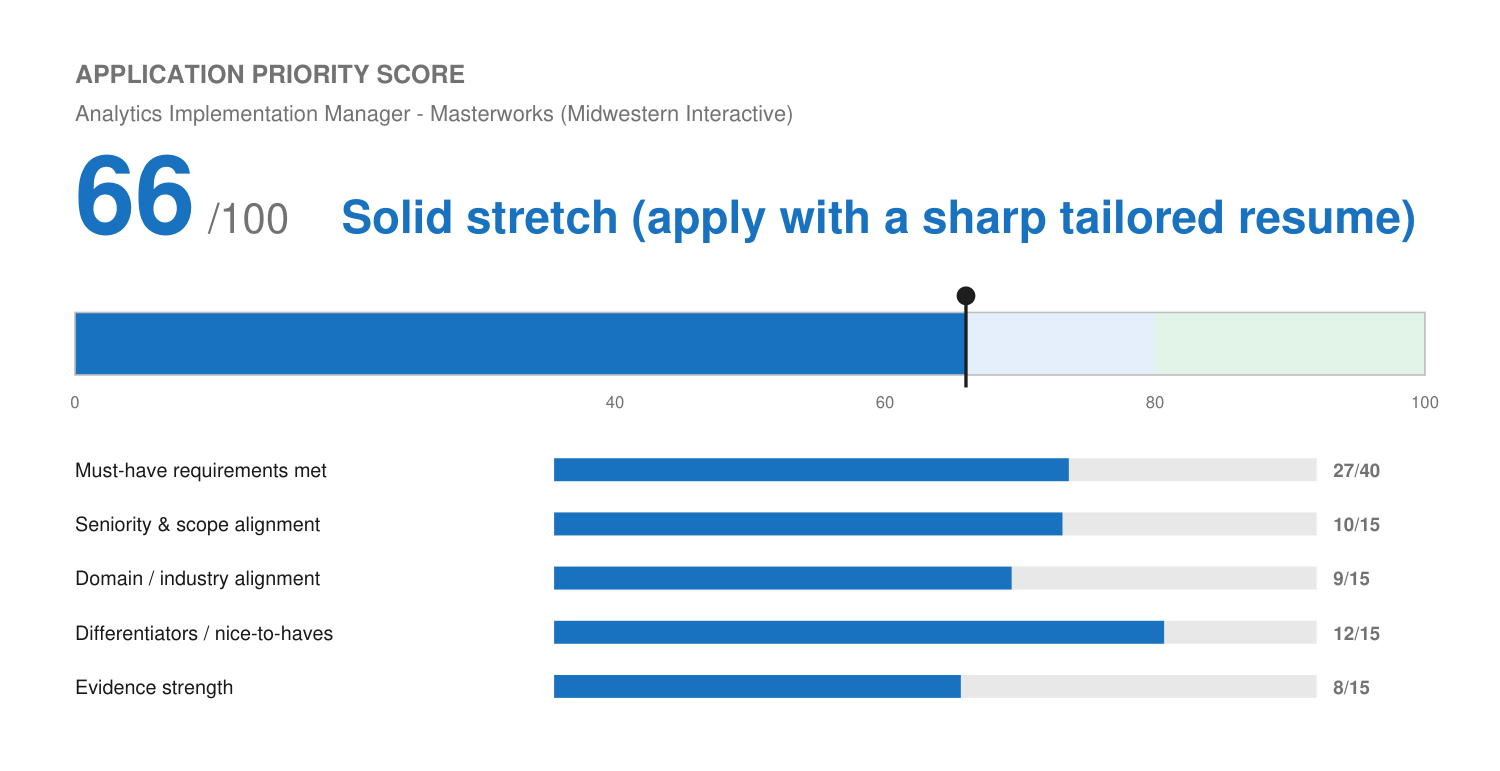
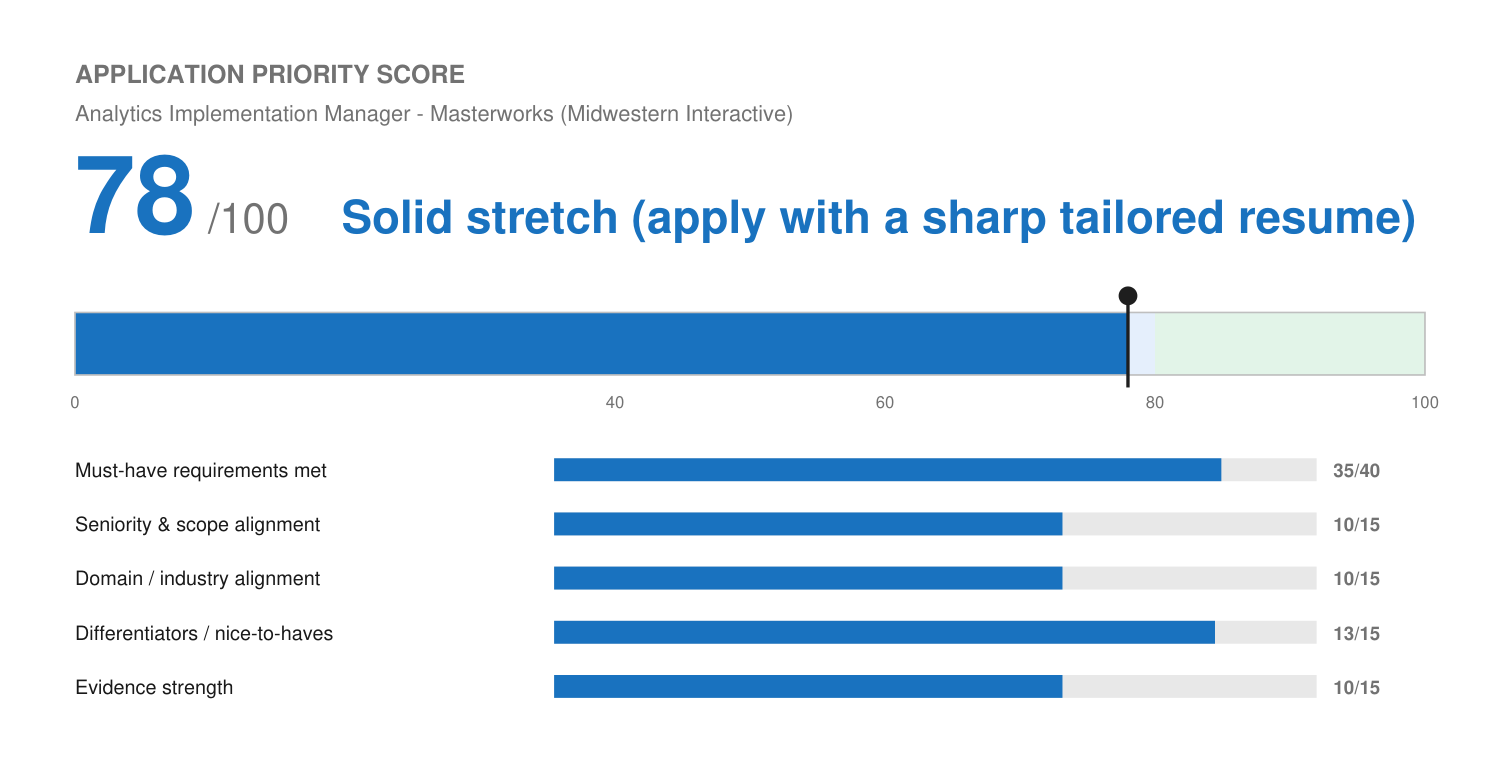
Masterworks Analytics Implementation Manager: score 78 after confirmations; profile adds GTM depth, DevTools debugging, pixels, UTM, consent
Claude-Session: https://claude.ai/code/session_018DEej5NGjq1omj9BTtvEiy

diff --git a/applications/masterworks-analytics-implementation-manager/match-report.md b/applications/masterworks-analytics-implementation-manager/match-report.md
@@ -24,20 +24,20 @@ No knockout. No cap. No video answer. Faith-based client base is context, not a 
 
 ## Application Priority Score
 
-⚪ **66 / 100 — Solid stretch (apply with a sharp tailored resume)**
-`[█████████████░░░░░░░]  66%`
+⚪ **78 / 100 — Solid stretch (apply with a sharp tailored resume)**
+`[████████████████░░░░]  78%`
 
 *Internal decision aid, not a prediction of Masterworks' screening outcome.* See `fit.png`.
 
 | Dimension | Score | Max |
 | :--- | :---: | :---: |
-| Must-have requirements met | 27 | 40 |
+| Must-have requirements met | 35 | 40 |
 | Seniority & scope alignment | 10 | 15 |
-| Domain / industry alignment | 9 | 15 |
-| Differentiators / nice-to-haves | 12 | 15 |
-| Evidence strength | 8 | 15 |
+| Domain / industry alignment | 10 | 15 |
+| Differentiators / nice-to-haves | 13 | 15 |
+| Evidence strength | 10 | 15 |
 
-This is a hands-on technical QA/implementation seat. Josh has the tooling (GTM, GA4, SQL, webhooks/APIs, JS in code steps) and the agency multi-client context, but his titles are sales/AM and the profile has little documented depth on GTM internals and browser-level debugging. The confirmation items below could move must-haves up meaningfully.
+Updated after confirmations: now near the top of the solid-stretch band. This is a hands-on technical QA/implementation seat. Josh has the tooling (GTM, GA4, SQL, webhooks/APIs, JS in code steps) and the agency multi-client context, but his titles are sales/AM and the profile has little documented depth on GTM internals and browser-level debugging. The confirmation items below could move must-haves up meaningfully.
 
 ---
 
@@ -46,20 +46,20 @@ This is a hands-on technical QA/implementation seat. Josh has the tooling (GTM, 
 | JD Requirement | Coverage | Evidence |
 | :--- | :--- | :--- |
 | 3+ yrs digital analytics / tag management | Adjacent | Solenzo GTM/GA4 installs; Wix GTM guidance |
-| Strong GTM: tags, triggers, variables, containers | Adjacent (depth unconfirmed) | GTM installed/configured on every Solenzo site |
-| Web analytics platform: goals, events, e-commerce | Adjacent | GA4 implementation and tracking; Wix e-commerce segment results. GA4 e-commerce event config not documented |
-| Debug with dev tools: network tab, dataLayer, event chains | Candidate confirmation needed | Integration/JSON debugging documented; browser-level debugging not |
+| Strong GTM: tags, triggers, variables, containers | Strong | Custom triggers/variables, Preview mode, every Solenzo site (confirmed Oct 2026) |
+| Web analytics platform: goals, events, e-commerce | Strong (e-commerce partial) | GA4 conversion events via GTM; GA4 e-commerce event config not documented |
+| Debug with dev tools: network tab, dataLayer, event chains | Strong | Confirmed Oct 2026: DevTools network tab + dataLayer for GA4 debugging |
 | Multiple client contexts + documentation | Strong | ~25 concurrent onboardings (Wix); Notion documentation (Solenzo); agency roles |
 | Clear written communication to non-technical | Strong | 18 published articles incl. schema for non-developers |
 | Piwik PRO (preferred) | Gap | |
-| Ad pixels: Meta, Google Ads, Adform, TTD (preferred) | Partial | Meta Ads certified, Google Ads optimization, LinkedIn Ads; no Adform/TTD; pixel deployment itself unconfirmed |
-| CRM source code tracking, UTM schemas (preferred) | Adjacent | Data feeds into CRMs, campaign attribution/ROI tracking; UTM governance unconfirmed |
+| Ad pixels: Meta, Google Ads, Adform, TTD (preferred) | Partial-strong | Installs Meta Pixel + Google Ads conversion tags himself; no Adform/TTD/Outbrain |
+| CRM source code tracking, UTM schemas (preferred) | Strong | Defines/enforces UTM conventions; data feeds into CRMs |
 | Basic SQL / BigQuery / Looker (preferred) | Strong | SQL for BigQuery/GA4 pulls and Power BI models |
 | Agency multi-client (preferred) | Strong | Level Agency, Fetch & Funnel, Solenzo |
 | AI/automation for monitoring (responsibility) | Strong | n8n/Make/Zapier, LLM APIs, evaluation loops |
-| Consent management | Gap | No cookie-consent / CMP experience documented |
+| Consent management | Adjacent-strong | Has set up cookie-consent configuration; CMP tool not named; no corporate privacy-compliance ownership |
 
-**Must-haves:** 2 of 6 strong, 3 adjacent, 1 unconfirmed.
+**Must-haves:** 5 of 6 strong; 3+ years as a dedicated analytics function still partial.
 
 ## Top Strengths
 1. Real hands-on tracking/integration work at Solenzo (GTM, GA4, webhooks, APIs, JSON, CRM data feeds).
@@ -69,15 +69,12 @@ This is a hands-on technical QA/implementation seat. Josh has the tooling (GTM, 
 ## Gaps
 - Piwik PRO (strongly preferred).
 - Adform, The Trade Desk, Outbrain pixels.
-- Consent management platforms / privacy compliance for tracking.
+- Corporate privacy/legal compliance ownership for tracking (consent setup itself is confirmed).
 - Nonprofit/faith-based fundraising domain (context, not required).
 
 ## Candidate Confirmation Needed
-1. **Browser dev-tools debugging.** Has Josh used the network tab and inspected the dataLayer to debug tags or conversion events? This is a must-have.
-2. **GTM depth.** Has he built custom triggers and variables (not just installed the container and a GA4 tag)? Any GTM Preview/debug mode use?
-3. **Pixel deployment.** Has he installed Meta Pixel / Google Ads conversion tags himself (via GTM or code)?
-4. **UTM schemas.** Has he defined or enforced a UTM naming convention for clients?
-5. **Consent banners.** Any cookie-consent / CMP setup (e.g., Cookiebot, OneTrust, GTM consent mode)?
+- Resolved Oct 5, 2026: Josh confirmed all five (DevTools/dataLayer debugging for GA4, custom GTM triggers/variables + Preview, Meta Pixel and Google Ads conversion tags, UTM conventions, cookie consent). Added to `master-profile.md`, resume, and cover letter. Score 66 -> 78.
+- Still open: which consent tool (Cookiebot, OneTrust, GTM consent mode); GA4 e-commerce event setup; whether any of this happened outside Solenzo.
 
 ## Metrics Needed
 - Number of client sites he has deployed GTM/GA4 on.

diff --git a/profile/master-profile.md b/profile/master-profile.md
@@ -384,6 +384,16 @@ operator talking, not like a candidate performing.
 > using AI assistance as part of the workflow. Safe to claim against a JD's "built and
 > deployed an automated workflow that calls external APIs in production" requirement.
 >
+> **Tracking implementation depth (confirmed by Josh, Oct 2026, Masterworks session):**
+> (1) debugs tags and GA4 conversion events with browser developer tools (network tab,
+> dataLayer inspection); (2) builds custom GTM triggers and variables and uses GTM
+> Preview/debug mode, beyond container install; (3) installs Meta Pixel and Google Ads
+> conversion tracking himself; (4) defines and enforces UTM naming conventions for
+> clients; (5) has set up cookie-consent banners / consent configuration. Attributed to
+> Solenzo by default (where he builds and tags client sites); confirm if any came from
+> another role. Specific CMP tool (Cookiebot, OneTrust, GTM consent mode) not named.
+> Piwik PRO, Adform, The Trade Desk, Outbrain remain unconfirmed/gaps.
+>
 > **Data feeds into CRMs (confirmed by Josh, Oct 2026):** has set up and run data feeds into
 > Salesforce, HubSpot, and GoHighLevel, and validates every import by re-checking the
 > results. No volume figures available (don't ask again). SFTP setup, file encryption (PGP),
@@ -447,6 +457,8 @@ operator talking, not like a candidate performing.
 
 **Operations & Technical Setup**
 - Install and configure Google Tag Manager on every website built at Solenzo, and guided clients through GTM setup at Wix. *(Confirmed by Josh, Aug 2026.)*
+- Build custom GTM triggers and variables for GA4 conversion events, Meta Pixel, and Google Ads conversion tags, validating in GTM Preview mode and browser developer tools (network tab, dataLayer). *(Confirmed by Josh, Oct 2026.)*
+- Define and enforce UTM naming conventions for client campaigns, and set up cookie-consent configuration on client sites. *(Confirmed by Josh, Oct 2026.)*
 - Architect and implement complex CRM systems in GoHighLevel (primary) and HubSpot — contact segmentation, lifecycle stages, and strict data-hygiene protocols.
 - Build reusable agent infrastructure and internal tooling integrating with client CRMs and CMS platforms for 24/7 automated growth engines.
 - Own post-sale value delivery for B2B clients, architecting onboarding and technical setup that drives product adoption at scale.
@@ -690,7 +702,7 @@ operator talking, not like a candidate performing.
 | CRM & Marketing Automation | GoHighLevel (primary) CRM & Automation Architecture, HubSpot, Salesforce, Workflow Design, Segmentation, Data Hygiene, Lifecycle Stages, Lead Routing, Zapier, Make, n8n |
 | Sales Engagement & Enrichment | Salesloft, Apollo, HeyReach, ZoomInfo, Gong (confirmed hands-on, Sep/Oct 2026; role attribution to be captured), Pipeline Stage Tracking & Forecast Hygiene |
 | Growth & Demand Generation | Full-funnel acquisition, Lifecycle Marketing, CRO, A/B Testing, Paid Media, Paid Social (Meta Ads certified), SEO, Local SEO & Google Business Profile Management, Data-Aggregator/Listings Solutions, Email Marketing (Marketo, Mailchimp), Landing Pages |
-| Analytics & Reporting | GA4, Google Search Console, Google Tag Manager, Ahrefs, Semrush, Campaign Attribution, ROI Dashboards, QBRs, KPI Tracking |
+| Analytics & Reporting | GA4, Google Search Console, Google Tag Manager (custom triggers/variables, Preview mode), Browser DevTools & dataLayer Debugging, Meta Pixel & Google Ads Conversion Tags, UTM Governance, Cookie Consent Setup, Ahrefs, Semrush, Campaign Attribution, ROI Dashboards, QBRs, KPI Tracking |
 | Data & BI Tools | Excel (experienced), Power BI (hands-on setup for client businesses), SQL (working proficiency — Power BI data modeling, BigQuery/GA4 queries), Python & JavaScript (custom code steps in Zapier/Make/n8n automation workflows) *(confirmed by Josh, Sep 2026 — see note below)* |
 | Web Technical | HTML/CSS (hands-on, own Solenzo site + client GA4 implementation), JavaScript (automation-tool code steps) |
 | AI & Automation | Agentic AI, Multi-agent orchestration, LLM workflows, ChatGPT, Claude, Prompt Design, Requirements-to-Prompt Translation, Stakeholder Elicitation, Rapid Prototyping |
